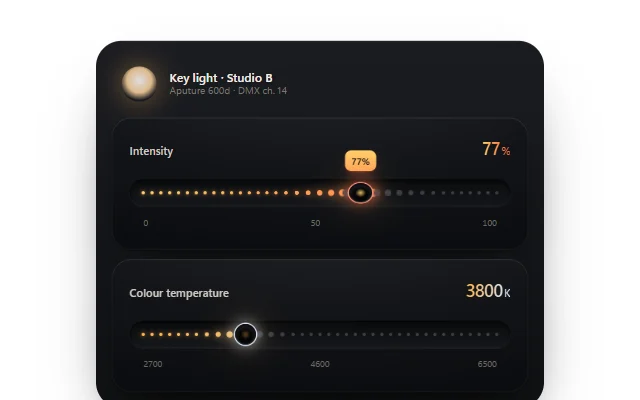
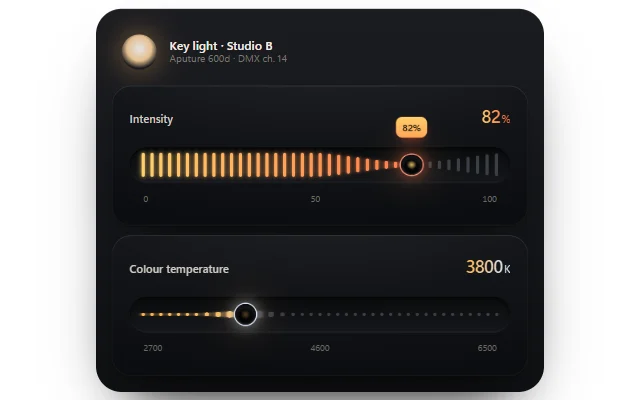
morphin buttons: magnet slider rises into a pit-carved bar field, bigger dock, demos centre in the viewport
magnet-dot-slider: on hover / drag / keyboard focus the dots spring up into bars with a pit
carved round the thumb, and settle back to dots after. titanium-dock: 62 px items (48 px on
phones), test reads geometry from the source. All ten demos use min-h max(…,100svh) so the
piece centres in the frame instead of sitting high.

diff --git a/components/magnet-dot-slider/magnet-dot-slider.tsx b/components/magnet-dot-slider/magnet-dot-slider.tsx
@@ -23,6 +23,8 @@ export interface MagnetDotSliderProps {
 
 const FONT = "'Geist','Inter','SF Pro Text','Segoe UI Variable Text',ui-sans-serif,system-ui,sans-serif"
 
+const BAR = 30
+
 const CSS =
   ".mds-root{--mds-from:#ffcf6b;--mds-to:#ff5d3a;position:relative;width:100%;max-width:520px;padding:22px 22px 26px;border-radius:24px;color:#ece9e4;font-family:var(--mds-font);-webkit-font-smoothing:antialiased;user-select:none;-webkit-user-select:none;" +
   "background:radial-gradient(120% 140% at 50% -40%,#24262c 0%,#141519 55%,#0c0d10 100%);box-shadow:inset 0 1px 0 rgba(255,255,255,.08),inset 0 0 0 1px rgba(255,255,255,.04),0 2px 4px rgba(0,0,0,.25),0 30px 60px -30px rgba(0,0,0,.75)}" +
@@ -30,18 +32,18 @@ const CSS =
   ".mds-lbl{font-size:14px;font-weight:560;color:#cfcac2;letter-spacing:-.005em}" +
   ".mds-out{font-size:22px;font-weight:600;letter-spacing:-.03em;font-variant-numeric:tabular-nums;background:linear-gradient(90deg,var(--mds-from),var(--mds-to));-webkit-background-clip:text;background-clip:text;color:transparent}" +
   ".mds-out small{font-size:14px;margin-left:2px;opacity:.8}" +
-  ".mds-track{position:relative;height:34px;border-radius:999px;cursor:pointer;touch-action:pan-y;outline:none;" +
+  ".mds-track{position:relative;height:44px;border-radius:999px;cursor:pointer;touch-action:pan-y;outline:none;" +
   "background:linear-gradient(180deg,#0a0b0d,#16171b);box-shadow:inset 0 2px 5px rgba(0,0,0,.7),inset 0 -1px 0 rgba(255,255,255,.05),0 1px 0 rgba(255,255,255,.06)}" +
   ".mds-track:focus-visible{box-shadow:inset 0 2px 5px rgba(0,0,0,.7),0 0 0 2px #0c0d10,0 0 0 4px var(--mds-to)}" +
   ".mds-row{position:absolute;inset:0 17px;pointer-events:none}" +
-  ".mds-d{position:absolute;top:50%;left:0;width:4px;height:4px;margin:-2px 0 0 -2px;border-radius:50%;background:#3b3e46;will-change:transform}" +
+  ".mds-d{position:absolute;top:50%;left:0;width:4px;height:" + BAR + "px;margin:-" + BAR / 2 + "px 0 0 -2px;border-radius:2px/calc(2px / var(--sy,1));background:#3b3e46;will-change:transform}" +
   ".mds-d[data-lit]{background:var(--c);box-shadow:0 0 6px var(--c)}" +
   // the pit: a recessed lens with a hot rim; it never reads layout, only the stored x
   ".mds-pit{position:absolute;top:50%;left:0;width:26px;height:26px;margin:-13px 0 0 -13px;border-radius:50%;pointer-events:none;will-change:transform;" +
   "background:radial-gradient(circle at 50% 60%,#050506 0 38%,#1b1c20 62%,#2e3036 100%);box-shadow:inset 0 2px 4px rgba(0,0,0,.9),inset 0 -1px 1px rgba(255,255,255,.18),0 0 0 1.5px color-mix(in oklab,var(--mds-to) 70%,#fff),0 0 18px 2px color-mix(in oklab,var(--mds-to) 55%,transparent),0 0 40px 6px color-mix(in oklab,var(--mds-from) 22%,transparent)}" +
   ".mds-pit::after{content:'';position:absolute;inset:7px;border-radius:50%;background:radial-gradient(circle,var(--mds-from),transparent 70%);opacity:.35;transition:opacity .3s}" +
   ".mds-root[data-drag] .mds-pit::after{opacity:.9}" +
-  ".mds-tip{position:absolute;bottom:calc(100% + 10px);left:0;padding:4px 8px;border-radius:8px;font-size:12px;font-weight:600;font-variant-numeric:tabular-nums;color:#16110c;white-space:nowrap;background:linear-gradient(180deg,var(--mds-from),color-mix(in oklab,var(--mds-from) 60%,var(--mds-to)));box-shadow:0 6px 14px -6px color-mix(in oklab,var(--mds-to) 70%,transparent);opacity:0;transform:translateX(-50%) translateY(6px) scale(.9);transition:opacity .2s,transform .35s cubic-bezier(.3,1.6,.5,1);pointer-events:none}" +
+  ".mds-tip{position:absolute;bottom:calc(100% + 12px);left:0;padding:4px 8px;border-radius:8px;font-size:12px;font-weight:600;font-variant-numeric:tabular-nums;color:#16110c;white-space:nowrap;background:linear-gradient(180deg,var(--mds-from),color-mix(in oklab,var(--mds-from) 60%,var(--mds-to)));box-shadow:0 6px 14px -6px color-mix(in oklab,var(--mds-to) 70%,transparent);opacity:0;transform:translateX(-50%) translateY(6px) scale(.9);transition:opacity .2s,transform .35s cubic-bezier(.3,1.6,.5,1);pointer-events:none}" +
   ".mds-tipw{position:absolute;top:0;left:0;will-change:transform}" +
   ".mds-root[data-drag] .mds-tip,.mds-track:focus-visible .mds-tip{opacity:1;transform:translateX(-50%) translateY(0) scale(1)}" +
   ".mds-ticks{display:flex;justify-content:space-between;margin-top:12px;padding:0 17px;font-size:11px;color:#6d6a66;font-variant-numeric:tabular-nums}" +
@@ -61,6 +63,13 @@ export function spring(pos: number, vel: number, target: number, dt: number, k =
   const a = k * (target - pos) - c * vel
   const v = vel + a * h
   return [pos + v * h, v]
+}
+
+/** Bar height (as a scale of the full bar) for a dot: a round dot at rest, a bar with a pit carved round the thumb when active. */
+export function barScale(p: number, act: number, rest: number) {
+  const dot = rest * (1 + p * 1.5)
+  const bar = 1 - 0.8 * p
+  return dot + (bar - dot) * act
 }
 
 /** Snap a 0..1 fraction to the step grid and return the value. */
@@ -104,7 +113,7 @@ export default function MagnetDotSlider({
   const row = useRef(null as HTMLDivElement | null)
   const pit = useRef(null as HTMLDivElement | null)
   const tip = useRef(null as HTMLDivElement | null)
-  const sim = useRef({ pos: fracOf(v, min, max), vel: 0, target: fracOf(v, min, max), w: 0, left: 0, raf: 0, last: 0, reduced: false })
+  const sim = useRef({ pos: fracOf(v, min, max), vel: 0, target: fracOf(v, min, max), w: 0, left: 0, raf: 0, last: 0, reduced: false, act: 0, actT: 0, over: false })
 
   const setValue = (nv: number) => {
     if (nv === v) return
@@ -119,14 +128,18 @@ export default function MagnetDotSlider({
     if (!r || !s.w) return
     const x = s.pos * s.w
     const speed = Math.min(1, Math.abs(s.vel) * 0.35)
-    const reach = 66 + speed * 50
+    const a = s.act
+    const reach = 66 + speed * 50 + a * 40
+    const rest = 4 / BAR
     const kids = r.children
     for (let i = 0; i < kids.length; i++) {
       const dx0 = (i / (kids.length - 1)) * s.w
       const dx = dx0 - x
       const p = pull(dx, reach)
       const el = kids[i] as HTMLElement
-      el.style.transform = "translateX(" + (dx0 - Math.sign(dx) * p * (13 + speed * 10)).toFixed(2) + "px) scale(" + (1 + p * 1.5).toFixed(3) + ")"
+      const sy = barScale(p, a, rest)
+      el.style.setProperty("--sy", sy.toFixed(3))
+      el.style.transform = "translateX(" + (dx0 - Math.sign(dx) * p * (13 + speed * 10) * (1 - a * 0.6)).toFixed(2) + "px) scale(" + (1 + p * 1.5 * (1 - a)).toFixed(3) + "," + sy.toFixed(3) + ")"
       const lit = dx0 <= x
       if (lit !== el.hasAttribute("data-lit")) lit ? el.setAttribute("data-lit", "") : el.removeAttribute("data-lit")
     }
@@ -139,11 +152,14 @@ export default function MagnetDotSlider({
     const dt = s.last ? (t - s.last) / 1000 : 1 / 60
     s.last = t
     ;[s.pos, s.vel] = s.reduced ? [s.target, 0] : spring(s.pos, s.vel, s.target, dt)
+    // the field rises into bars while the slider is in use and settles back to dots after
+    s.act = s.reduced ? s.actT : s.act + (s.actT - s.act) * Math.min(1, dt * 9)
     paint()
-    if (Math.abs(s.target - s.pos) > 0.0005 || Math.abs(s.vel) > 0.002) s.raf = requestAnimationFrame(tick)
+    if (Math.abs(s.target - s.pos) > 0.0005 || Math.abs(s.vel) > 0.002 || Math.abs(s.actT - s.act) > 0.002) s.raf = requestAnimationFrame(tick)
     else {
       s.pos = s.target
       s.vel = 0
+      s.act = s.actT
       s.raf = 0
       s.last = 0
       paint()
@@ -182,6 +198,11 @@ export default function MagnetDotSlider({
     }
   }, [])
 
+  const activate = (on: boolean) => {
+    sim.current.actT = on ? 1 : 0
+    kick()
+  }
+
   const fromPointer = (clientX: number) => (clientX - sim.current.left - 17) / (sim.current.w || 1)
 
   const onDown = (e: React.PointerEvent) => {
@@ -195,6 +216,7 @@ export default function MagnetDotSlider({
     if (!sim.current.w) sim.current.w = r.width - 34
     t.setPointerCapture?.(e.pointerId)
     setDrag(true)
+    activate(true)
     const f = fromPointer(e.clientX)
     sim.current.target = Math.min(1, Math.max(0, f))
     setValue(valueAt(f, min, max, step))
@@ -210,6 +232,7 @@ export default function MagnetDotSlider({
   const onUp = () => {
     if (!drag) return
     setDrag(false)
+    activate(sim.current.over)
     sim.current.target = fracOf(v, min, max)
     kick()
   }
@@ -257,6 +280,16 @@ export default function MagnetDotSlider({
         onPointerMove={onMove}
         onPointerUp={onUp}
         onPointerCancel={onUp}
+        onPointerEnter={() => {
+          sim.current.over = true
+          activate(true)
+        }}
+        onPointerLeave={() => {
+          sim.current.over = false
+          if (!drag) activate(false)
+        }}
+        onFocus={(e) => e.currentTarget.matches(":focus-visible") && activate(true)}
+        onBlur={() => !sim.current.over && activate(false)}
         onKeyDown={onKey}
       >
         <div ref={row} className="mds-row">

diff --git a/components/titanium-dock/titanium-dock.tsx b/components/titanium-dock/titanium-dock.tsx
@@ -23,9 +23,9 @@ export interface TitaniumDockProps {
   "aria-label"?: string
 }
 
-const SIZE = 54
-const GAP = 10
-const PAD = 9
+const SIZE = 62
+const GAP = 12
+const PAD = 10
 
 const CSS =
   ".tdk-root{--tdk-s:" + SIZE + "px;--tdk-g:" + GAP + "px;--tdk-a:#f6f7f9;--tdk-b:#d4d7dc;--tdk-c:#b9bdc4;--tdk-ink:#2b2e33;--tdk-dim:#7b8089;--tdk-line:rgba(255,255,255,.55);--tdk-shadow:rgba(30,35,45,.28);position:relative;display:inline-flex;max-width:100%;font-family:'Geist','Inter','SF Pro Text','Segoe UI Variable Text',ui-sans-serif,system-ui,sans-serif;-webkit-font-smoothing:antialiased}" +
@@ -36,16 +36,16 @@ const CSS =
   "box-shadow:inset 0 1px 0 var(--tdk-line),inset 0 -1px 0 rgba(0,0,0,.18),0 0 0 1px rgba(0,0,0,.08),0 2px 3px var(--tdk-shadow),0 18px 36px -16px var(--tdk-shadow),0 40px 60px -40px var(--tdk-shadow)}" +
   ".tdk-root[data-finish=graphite] .tdk-bar{background:radial-gradient(160px 70px at var(--tdk-hx,50%) 0%,rgba(255,255,255,.16),transparent 70%),repeating-linear-gradient(0deg,rgba(255,255,255,.035) 0 1px,rgba(0,0,0,.08) 1px 2px,transparent 2px 3px),linear-gradient(180deg,var(--tdk-a),var(--tdk-b) 50%,var(--tdk-c))}" +
   // the bezel: a raised, polished cup with an anodised heat-tint rim that springs between items
-  ".tdk-bezel{position:absolute;left:" + PAD + "px;top:" + PAD + "px;width:var(--tdk-s);height:var(--tdk-s);border-radius:17px;z-index:0;pointer-events:none;" +
+  ".tdk-bezel{position:absolute;left:" + PAD + "px;top:" + PAD + "px;width:var(--tdk-s);height:var(--tdk-s);border-radius:20px;z-index:0;pointer-events:none;" +
   "transform:translateX(calc(var(--tdk-i)*(var(--tdk-s) + var(--tdk-g)))) scaleX(var(--tdk-sx,1));transition:transform .62s cubic-bezier(.3,1.35,.4,1)}" +
-  ".tdk-bezel::before{content:'';position:absolute;inset:-2px;border-radius:19px;padding:2px;background:conic-gradient(from var(--tdk-rot,200deg),#f0c27a,#d47ccf,#6c7cff,#58d5e6,#f0c27a);-webkit-mask:linear-gradient(#000 0 0) content-box,linear-gradient(#000 0 0);-webkit-mask-composite:xor;mask:linear-gradient(#000 0 0) content-box exclude,linear-gradient(#000 0 0);filter:saturate(1.15);transition:--tdk-rot .9s cubic-bezier(.3,1,.4,1)}" +
-  ".tdk-bezel::after{content:'';position:absolute;inset:0;border-radius:17px;background:radial-gradient(120% 90% at 30% 0%,#ffffff,#eceef1 40%,#cdd1d7 100%);box-shadow:inset 0 1px 0 #fff,inset 0 -2px 4px rgba(0,0,0,.12),0 2px 4px rgba(20,25,35,.25),0 10px 18px -8px rgba(20,25,35,.45)}" +
+  ".tdk-bezel::before{content:'';position:absolute;inset:-2px;border-radius:22px;padding:2px;background:conic-gradient(from var(--tdk-rot,200deg),#f0c27a,#d47ccf,#6c7cff,#58d5e6,#f0c27a);-webkit-mask:linear-gradient(#000 0 0) content-box,linear-gradient(#000 0 0);-webkit-mask-composite:xor;mask:linear-gradient(#000 0 0) content-box exclude,linear-gradient(#000 0 0);filter:saturate(1.15);transition:--tdk-rot .9s cubic-bezier(.3,1,.4,1)}" +
+  ".tdk-bezel::after{content:'';position:absolute;inset:0;border-radius:20px;background:radial-gradient(120% 90% at 30% 0%,#ffffff,#eceef1 40%,#cdd1d7 100%);box-shadow:inset 0 1px 0 #fff,inset 0 -2px 4px rgba(0,0,0,.12),0 2px 4px rgba(20,25,35,.25),0 10px 18px -8px rgba(20,25,35,.45)}" +
   ".tdk-root[data-finish=graphite] .tdk-bezel::after{background:radial-gradient(120% 90% at 30% 0%,#7a7f88,#4b4f56 45%,#2c2f34 100%);box-shadow:inset 0 1px 0 rgba(255,255,255,.25),inset 0 -2px 5px rgba(0,0,0,.4),0 2px 4px rgba(0,0,0,.5),0 10px 18px -8px rgba(0,0,0,.7)}" +
   "@property --tdk-rot{syntax:'<angle>';inherits:true;initial-value:200deg}" +
-  ".tdk-item{position:relative;z-index:1;display:grid;place-items:center;width:var(--tdk-s);height:var(--tdk-s);flex:none;border:0;border-radius:16px;background:none;color:var(--tdk-dim);cursor:pointer;outline:none;-webkit-tap-highlight-color:transparent;transition:color .3s}" +
+  ".tdk-item{position:relative;z-index:1;display:grid;place-items:center;width:var(--tdk-s);height:var(--tdk-s);flex:none;border:0;border-radius:19px;background:none;color:var(--tdk-dim);cursor:pointer;outline:none;-webkit-tap-highlight-color:transparent;transition:color .3s}" +
   ".tdk-item:hover,.tdk-item[aria-current=true]{color:var(--tdk-ink)}" +
   ".tdk-item:focus-visible{box-shadow:0 0 0 2px var(--tdk-ink)}" +
-  ".tdk-ico{display:block;width:24px;height:24px;transform:translateY(calc(var(--tdk-m,0)*-7px)) scale(calc(1 + var(--tdk-m,0)*var(--tdk-mag)));transition:transform .28s cubic-bezier(.3,1.4,.5,1)}" +
+  ".tdk-ico{display:block;width:26px;height:26px;transform:translateY(calc(var(--tdk-m,0)*-7px)) scale(calc(1 + var(--tdk-m,0)*var(--tdk-mag)));transition:transform .28s cubic-bezier(.3,1.4,.5,1)}" +
   ".tdk-ico svg{display:block;width:100%;height:100%}" +
   ".tdk-item[aria-current=true] .tdk-ico{filter:drop-shadow(0 1px 0 rgba(255,255,255,.6))}" +
   ".tdk-item:active .tdk-ico{transform:scale(.88);transition-duration:.1s}" +
@@ -58,7 +58,7 @@ const CSS =
   ".tdk-item[aria-current=true] .tdk-dot{opacity:.55;transform:none}" +
   ".tdk-root:not([data-in]) .tdk-bar{opacity:0;transform:translateY(14px) scale(.96)}.tdk-root[data-in] .tdk-bar{transition:opacity .5s,transform .8s cubic-bezier(.3,1.4,.5,1)}" +
   ".tdk-root:not([data-in]) .tdk-item{opacity:0;transform:translateY(10px)}.tdk-root[data-in] .tdk-item{transition:color .3s,opacity .4s calc(var(--n)*55ms + .12s),transform .6s calc(var(--n)*55ms + .12s) cubic-bezier(.3,1.5,.5,1)}" +
-  "@media (max-width:400px){.tdk-root{--tdk-s:46px;--tdk-g:5px}}" +
+  "@media (max-width:420px){.tdk-root{--tdk-s:48px;--tdk-g:5px}}" +
   "@media (prefers-reduced-motion:reduce){.tdk-bezel,.tdk-ico,.tdk-tip,.tdk-bar,.tdk-item,.tdk-bezel::before{transition-duration:.01ms!important;transition-delay:0s!important}.tdk-ico{transform:none!important}}"
 
 // #region dock

diff --git a/components/heart-burst-button/demo.tsx b/components/heart-burst-button/demo.tsx
@@ -10,7 +10,7 @@ function Post({ dark }: { dark?: boolean }) {
   const mute = dark ? "#9c8a91" : "#9a868d"
   return (
     <article
-      className="w-full max-w-[380px] rounded-[26px] p-6"
+      className="w-full max-w-[440px] rounded-[28px] p-7"
       style={{
         fontFamily: sans,
         color: ink,
@@ -29,7 +29,7 @@ function Post({ dark }: { dark?: boolean }) {
           <p className="text-[12px]" style={{ color: mute }}>{dark ? "@noor.builds · 2h" : "@adamarlow · 14m"}</p>
         </div>
       </header>
-      <p className="mt-4 text-[21px] leading-[1.3]" style={{ fontFamily: serif, letterSpacing: "-0.01em" }}>
+      <p className="mt-5 text-[24px] leading-[1.28]" style={{ fontFamily: serif, letterSpacing: "-0.01em" }}>
         {dark
           ? "Shipped the offline mode at 2 a.m. The sync conflict screen is the part I'm proudest of."
           : "Took the 6:04 ferry just to watch the fog peel off the harbour. Worth every yawn."}
@@ -44,7 +44,7 @@ function Post({ dark }: { dark?: boolean }) {
 
 export default function Demo() {
   return (
-    <div className="flex min-h-[560px] w-full flex-wrap items-center justify-center gap-6 bg-background px-4 py-16">
+    <div className="flex min-h-[max(560px,100svh)] w-full flex-wrap items-center justify-center gap-6 bg-background px-4 py-16">
       <Post />
       <Post dark />
     </div>

diff --git a/components/vernier-precision-slider/demo.tsx b/components/vernier-precision-slider/demo.tsx
@@ -10,7 +10,7 @@ export default function Demo() {
   const [temp, setTemp] = useState(93.5)
   const [dose, setDose] = useState(18.2)
   return (
-    <div className="flex min-h-[720px] w-full items-center justify-center bg-background px-4 py-16">
+    <div className="flex min-h-[max(720px,100svh)] w-full items-center justify-center bg-background px-4 py-16">
       <div
         className="w-full max-w-[600px] rounded-[34px] p-4 sm:p-5"
         style={{ fontFamily: sans, background: "linear-gradient(180deg,#e9e4dc,#ddd6cb)", boxShadow: "inset 0 1px 0 rgba(255,255,255,.7), 0 40px 80px -40px rgba(60,45,30,.45)" }}

diff --git a/components/aurora-ring-button/demo.tsx b/components/aurora-ring-button/demo.tsx
@@ -6,7 +6,7 @@ const sans = "'Geist','Inter','SF Pro Display','Segoe UI Variable Display',ui-sa
 
 export default function Demo() {
   return (
-    <div className="flex min-h-[640px] w-full items-center justify-center bg-background px-4 py-16">
+    <div className="flex min-h-[max(640px,100svh)] w-full items-center justify-center bg-background px-4 py-16">
       <div className="grid w-full max-w-[860px] gap-5 md:grid-cols-[1.25fr_1fr]" style={{ fontFamily: sans }}>
         <section
           className="relative flex flex-col items-start overflow-hidden rounded-[30px] p-8 sm:p-10"

diff --git a/components/dot-flood-button/demo.tsx b/components/dot-flood-button/demo.tsx
@@ -7,7 +7,7 @@ const sans = "'Geist','Inter','SF Pro Text','Segoe UI Variable Text',ui-sans-ser
 
 export default function Demo() {
   return (
-    <div className="flex min-h-[620px] w-full items-center justify-center bg-background px-4 py-16">
+    <div className="flex min-h-[max(620px,100svh)] w-full items-center justify-center bg-background px-4 py-16">
       <div
         className="relative w-full max-w-[720px] overflow-hidden rounded-[28px] px-7 py-12 sm:px-14 sm:py-16"
         style={{

diff --git a/components/magnet-dot-slider/demo.tsx b/components/magnet-dot-slider/demo.tsx
@@ -11,7 +11,7 @@ export default function Demo() {
   // the lamp preview warms and brightens with the sliders
   const warm = Math.min(1, Math.max(0, (6500 - kelvin) / 3800))
   return (
-    <div className="flex min-h-[680px] w-full items-center justify-center bg-background px-4 py-16">
+    <div className="flex min-h-[max(680px,100svh)] w-full items-center justify-center bg-background px-4 py-16">
       <div
         className="w-full max-w-[560px] rounded-[32px] p-4 sm:p-5"
         style={{

diff --git a/components/cube-roll-button/demo.tsx b/components/cube-roll-button/demo.tsx
@@ -4,7 +4,7 @@ import CubeRollButton from "@/components/ui/cube-roll-button"
 
 export default function Demo() {
   return (
-    <div className="flex min-h-[560px] w-full items-center justify-center bg-background px-4 py-16">
+    <div className="flex min-h-[max(560px,100svh)] w-full items-center justify-center bg-background px-4 py-16">
       <div
         className="relative w-full max-w-[640px] overflow-hidden rounded-[28px] px-6 py-14 text-center sm:px-12"
         style={{

diff --git a/components/comet-orbit-button/demo.tsx b/components/comet-orbit-button/demo.tsx
@@ -7,7 +7,7 @@ let attempts = 0
 
 export default function Demo() {
   return (
-    <div className="flex min-h-[600px] w-full items-center justify-center bg-background px-4 py-16">
+    <div className="flex min-h-[max(600px,100svh)] w-full items-center justify-center bg-background px-4 py-16">
       <div
         className="relative w-full max-w-[420px] overflow-hidden rounded-[30px] p-7 text-[#f4efe6] sm:p-9"
         style={{

diff --git a/components/hold-trace-button/demo.tsx b/components/hold-trace-button/demo.tsx
@@ -12,7 +12,7 @@ const files = [
 export default function Demo() {
   const [gone, setGone] = useState(-1)
   return (
-    <div className="flex min-h-[620px] w-full items-center justify-center bg-background px-4 py-16">
+    <div className="flex min-h-[max(620px,100svh)] w-full items-center justify-center bg-background px-4 py-16">
       <div
         className="w-full max-w-[520px] rounded-[26px] p-3"
         style={{

diff --git a/components/titanium-dock/demo.tsx b/components/titanium-dock/demo.tsx
@@ -29,7 +29,7 @@ function Stage({ dark }: { dark?: boolean }) {
 
 export default function Demo() {
   return (
-    <div className="flex min-h-[640px] w-full flex-col items-center justify-center gap-6 bg-background px-4 py-16">
+    <div className="flex min-h-[max(640px,100svh)] w-full flex-col items-center justify-center gap-6 bg-background px-4 py-16">
       <Stage />
       <Stage dark />
     </div>

diff --git a/components/checkout-flow-button/demo.tsx b/components/checkout-flow-button/demo.tsx
@@ -13,7 +13,7 @@ const lines = [
 
 export default function Demo() {
   return (
-    <div className="flex min-h-[620px] w-full items-center justify-center bg-background px-4 py-16">
+    <div className="flex min-h-[max(620px,100svh)] w-full items-center justify-center bg-background px-4 py-16">
       <div
         className="w-full max-w-[440px] rounded-[30px] p-6 sm:p-8"
         style={{
